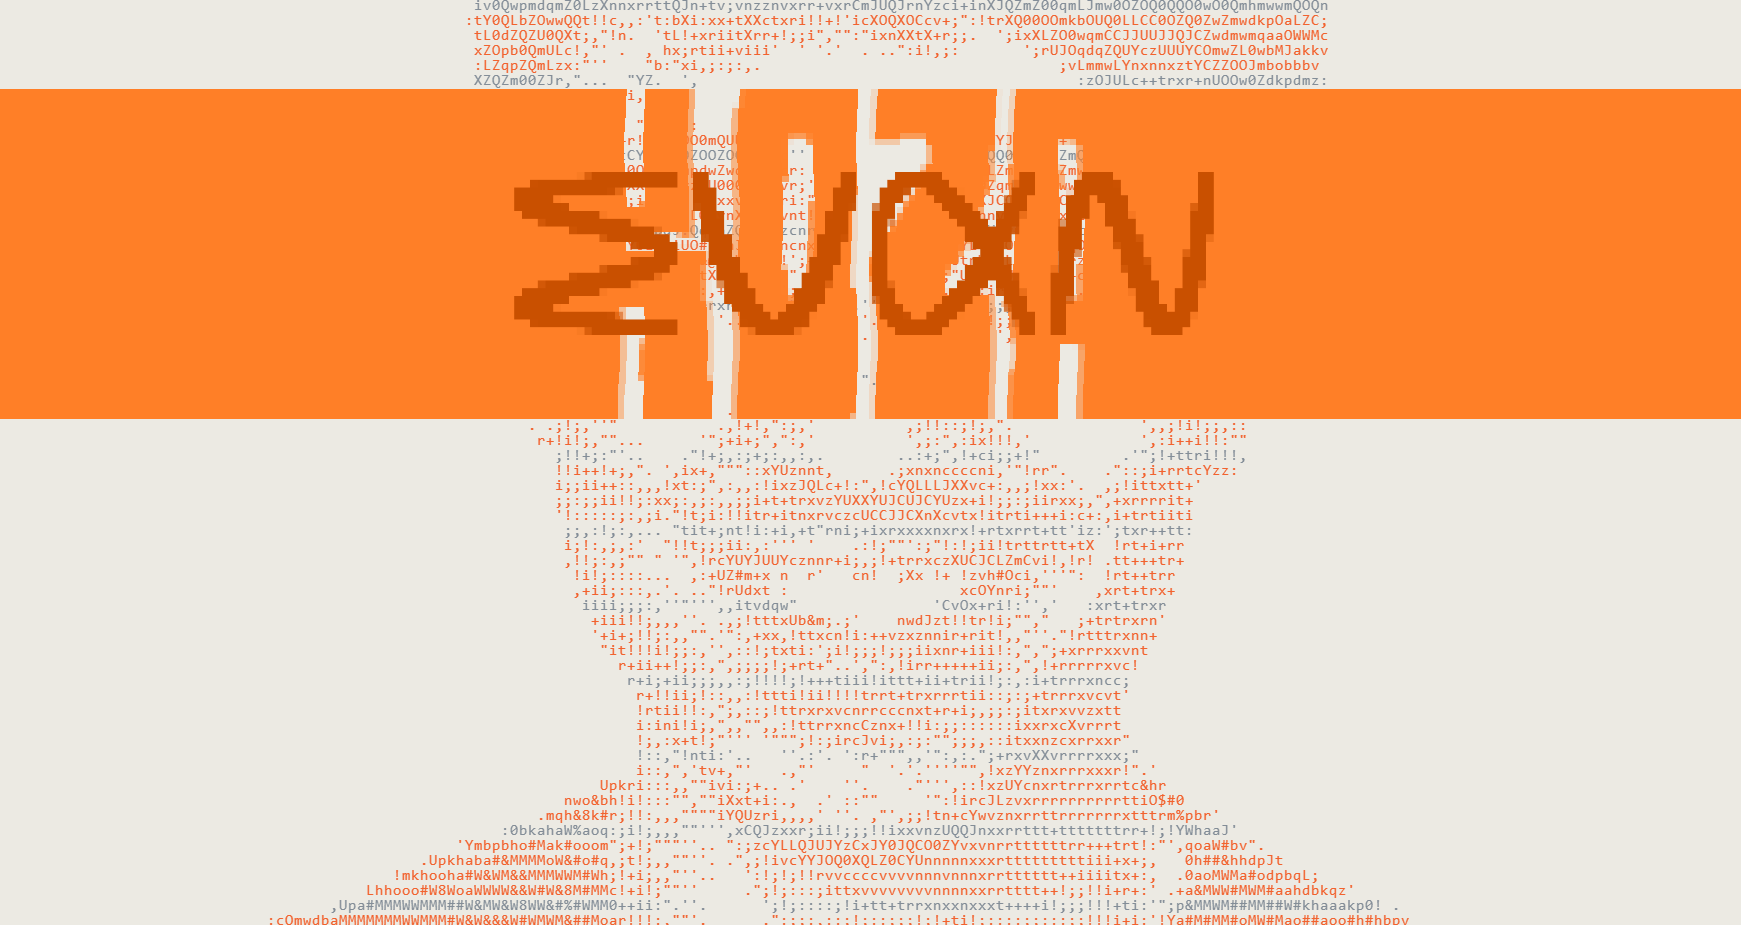
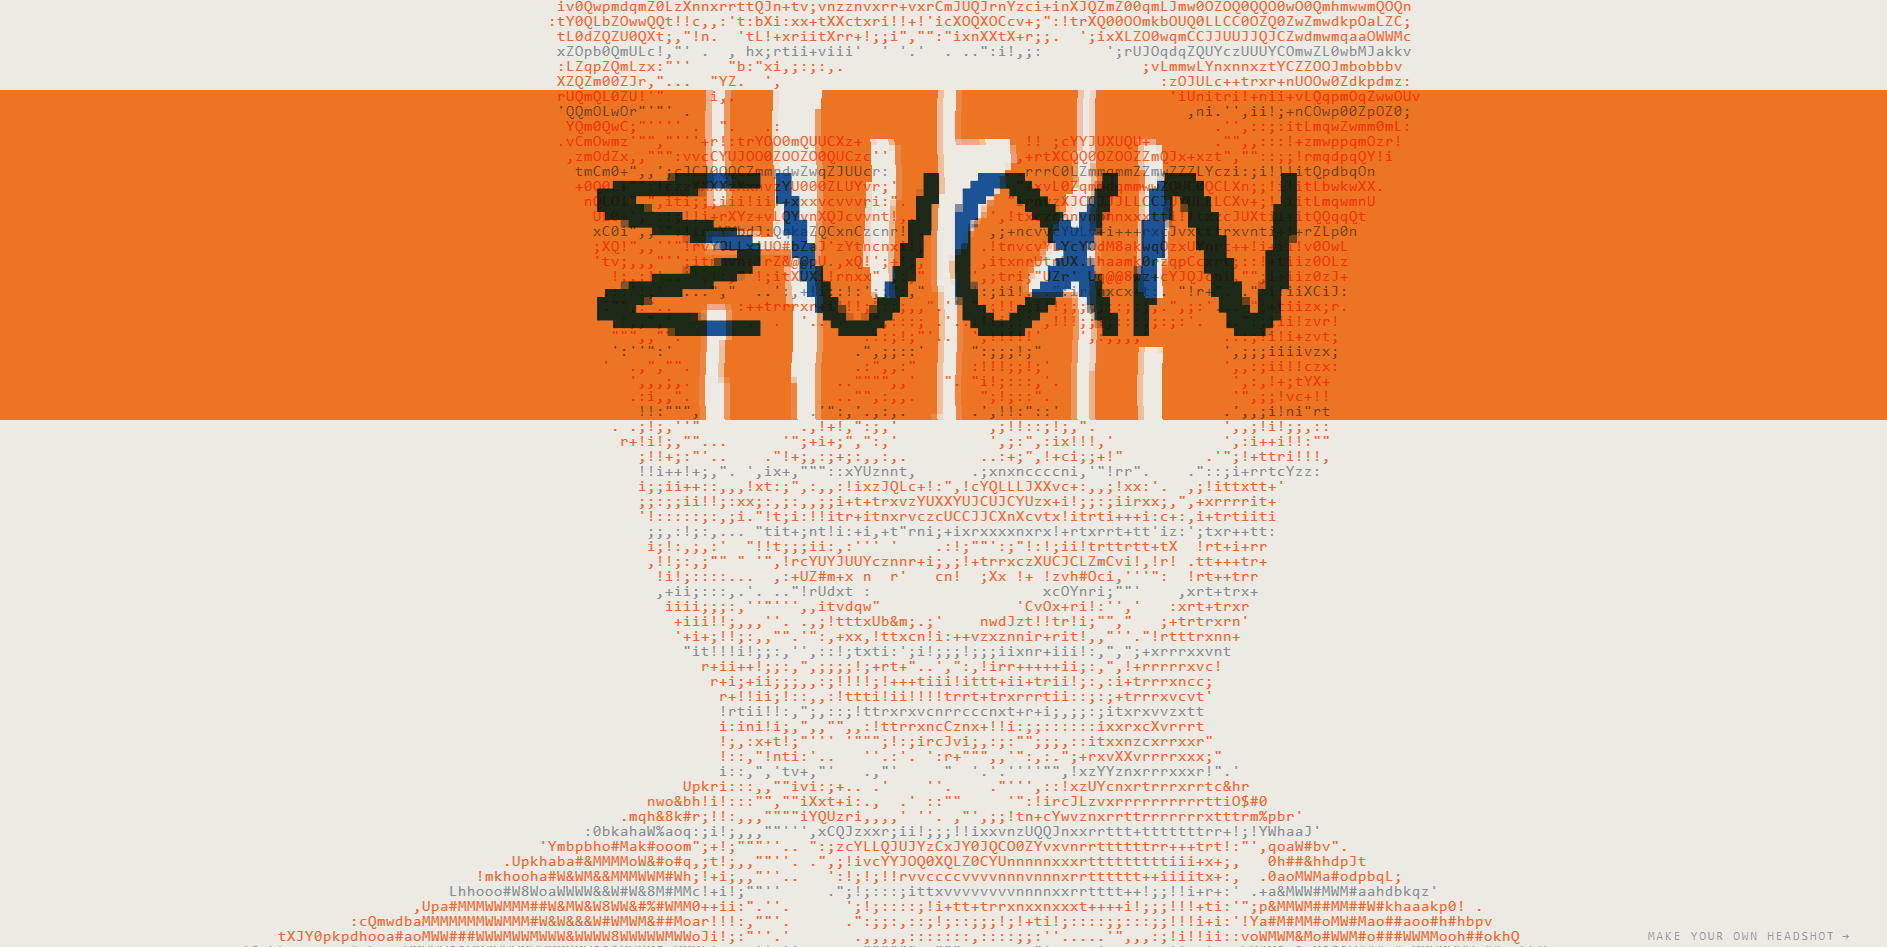
Use the current hero for the link preview, and rewrite the social copy
The og:image was a stale crop of an older hero that chopped the face
mid-frame. Replaced it with a shot of the hero as it renders today
(1887x947, just under 2:1) and updated the declared dimensions to match.
Same path, so all ten experiment pages pick it up too.

The meta copy read like a resume blurb written by a machine, right down
to the trailing "Portfolio, projects, and interactive experiments."
Rewrote description/og/twitter in the same voice as the about tagline.
Description trimmed to 155 chars so Google doesn't truncate it.

Changed region(s): [[0.0, 0.0, 1.0, 1.0], [0.8995, 0.9686, 0.9305, 0.9989]]

diff --git a/index.html b/index.html
@@ -5,7 +5,7 @@
 <meta name="viewport" content="width=device-width, initial-scale=1" />
 
 <title>Evan Koza</title>
-<meta name="description" content="Evan Koza is a Computer Science & Data Science student at Western University and Software Developer at Digits Rehab, building data-driven applications. Portfolio, projects, and interactive experiments." />
+<meta name="description" content="I&#39;m Evan Koza, a Computer Science &amp; Data Science student at Western University and a software developer at Digits Rehab. Most of what I build ends up here." />
 <meta name="author" content="Evan Koza" />
 <link rel="canonical" href="https://evankoza.com/" />
 
@@ -32,20 +32,22 @@
 <!-- Open Graph / social link previews -->
 <meta property="og:type" content="website" />
 <meta property="og:site_name" content="Evan Koza" />
-<meta property="og:title" content="Evan Koza, Software Developer & CS / Data Science Student" />
-<meta property="og:description" content="Computer Science & Data Science student at Western University and Software Developer at Digits Rehab. Portfolio, projects, and interactive experiments." />
+<meta property="og:title" content="Evan Koza, Software Developer" />
+<meta property="og:description" content="CS &amp; Data Science at Western University, building software at Digits Rehab. There&#39;s usually a side project going too, and most of them end up on this site." />
 <meta property="og:url" content="https://evankoza.com/" />
 <meta property="og:image" content="https://evankoza.com/assets/thumbnail.png" />
 <!-- Declared dimensions let a scraper reserve the card before it fetches the
      image, so the large-image preview doesn't collapse to a small one on first
-     share. Must match assets/thumbnail.png (1741×925) if that file is replaced. -->
-<meta property="og:image:width" content="1741" />
-<meta property="og:image:height" content="925" />
-<meta property="og:image:alt" content="Evan Koza — animated ASCII portrait over the KOZA wordmark" />
+     share. Must match assets/thumbnail.png (1887×947) if that file is replaced.
+     Just under 2:1, which is what a large-image card wants; Twitter uses it as
+     is and the 1.91:1 platforms shave ~2% off the height. -->
+<meta property="og:image:width" content="1887" />
+<meta property="og:image:height" content="947" />
+<meta property="og:image:alt" content="ASCII portrait of Evan Koza behind a pixelated EVAN wordmark on an orange band" />
 <meta property="og:locale" content="en_CA" />
 <meta name="twitter:card" content="summary_large_image" />
-<meta name="twitter:title" content="Evan Koza, Software Developer & CS / Data Science Student" />
-<meta name="twitter:description" content="Computer Science & Data Science student at Western University and Software Developer at Digits Rehab." />
+<meta name="twitter:title" content="Evan Koza, Software Developer" />
+<meta name="twitter:description" content="CS &amp; Data Science at Western University, building software at Digits Rehab. There&#39;s usually a side project going too." />
 <meta name="twitter:image" content="https://evankoza.com/assets/thumbnail.png" />
 
 <!-- Tells search engines this page IS the person "Evan Koza" — feeds name-search results & knowledge panel -->
